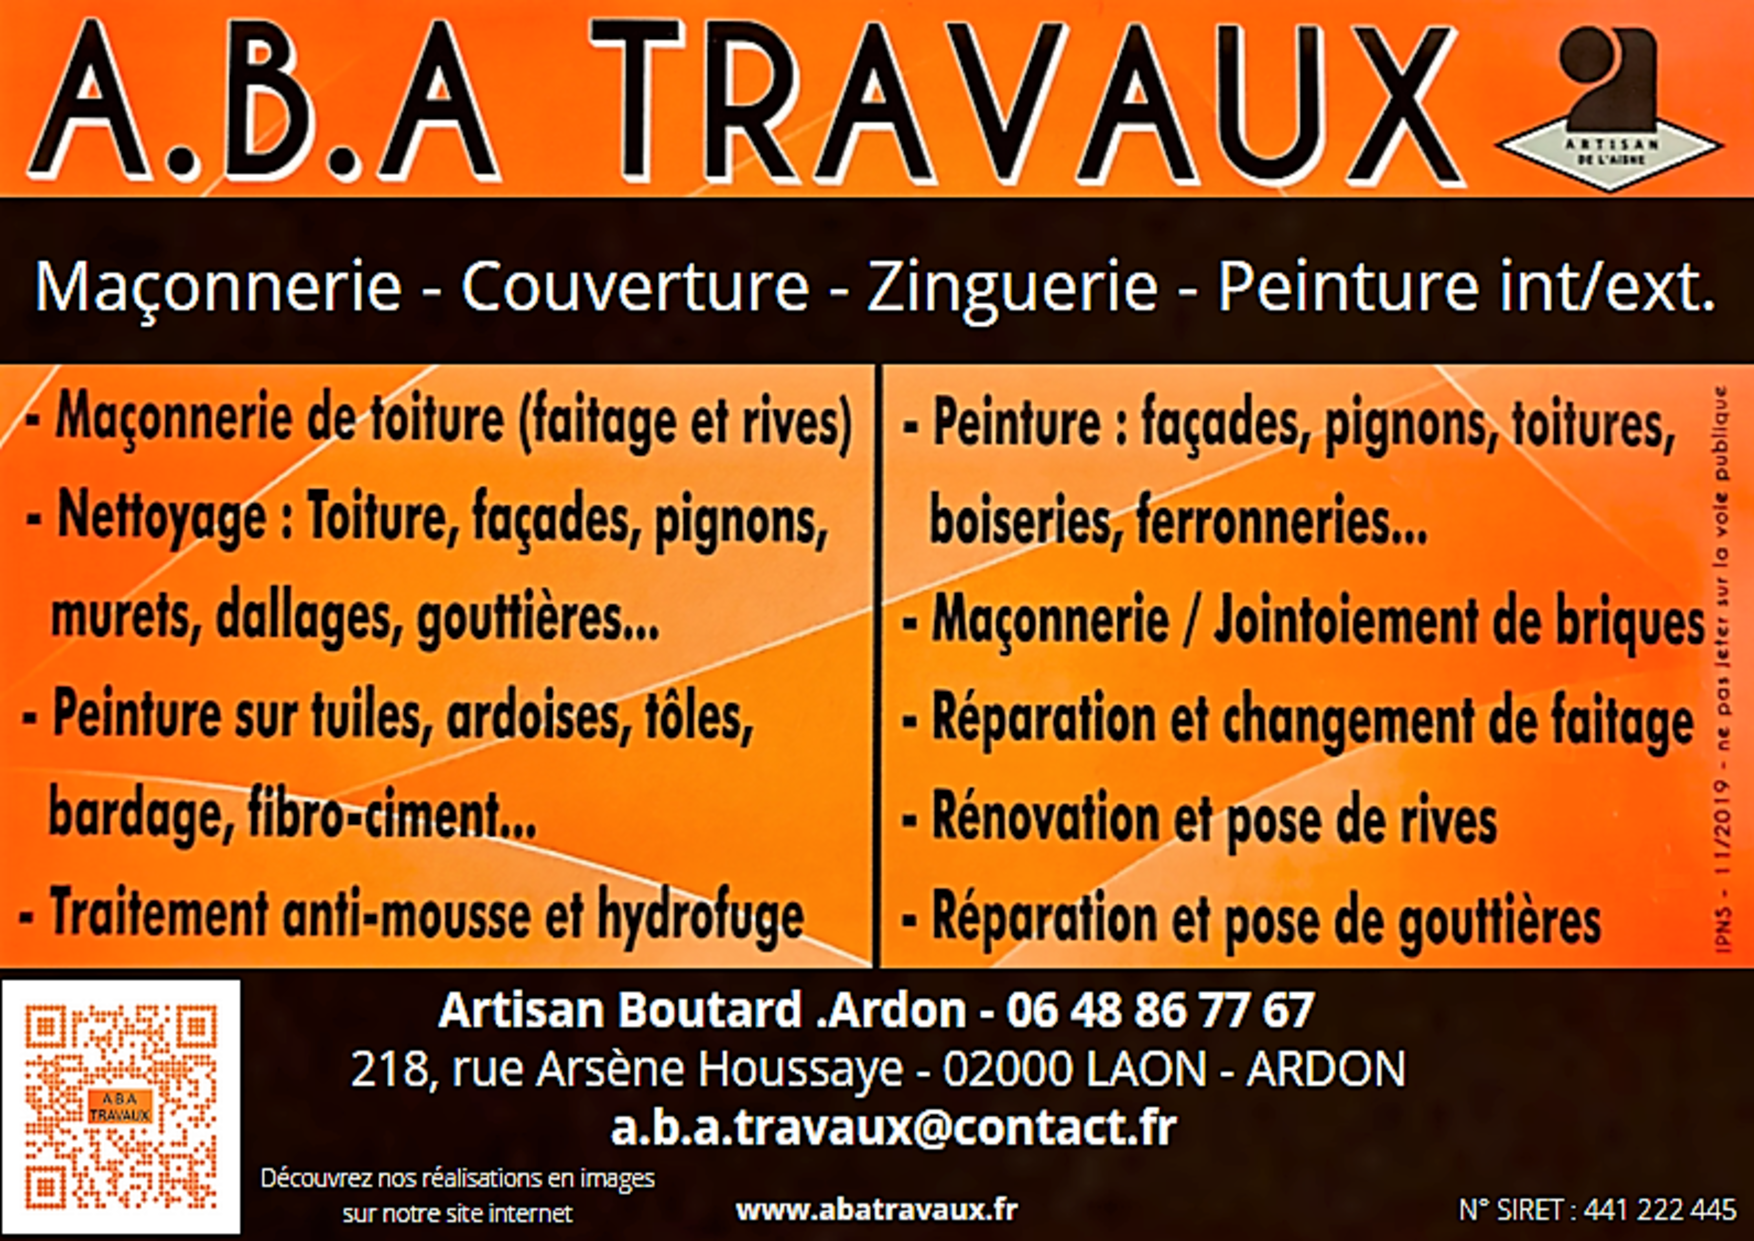
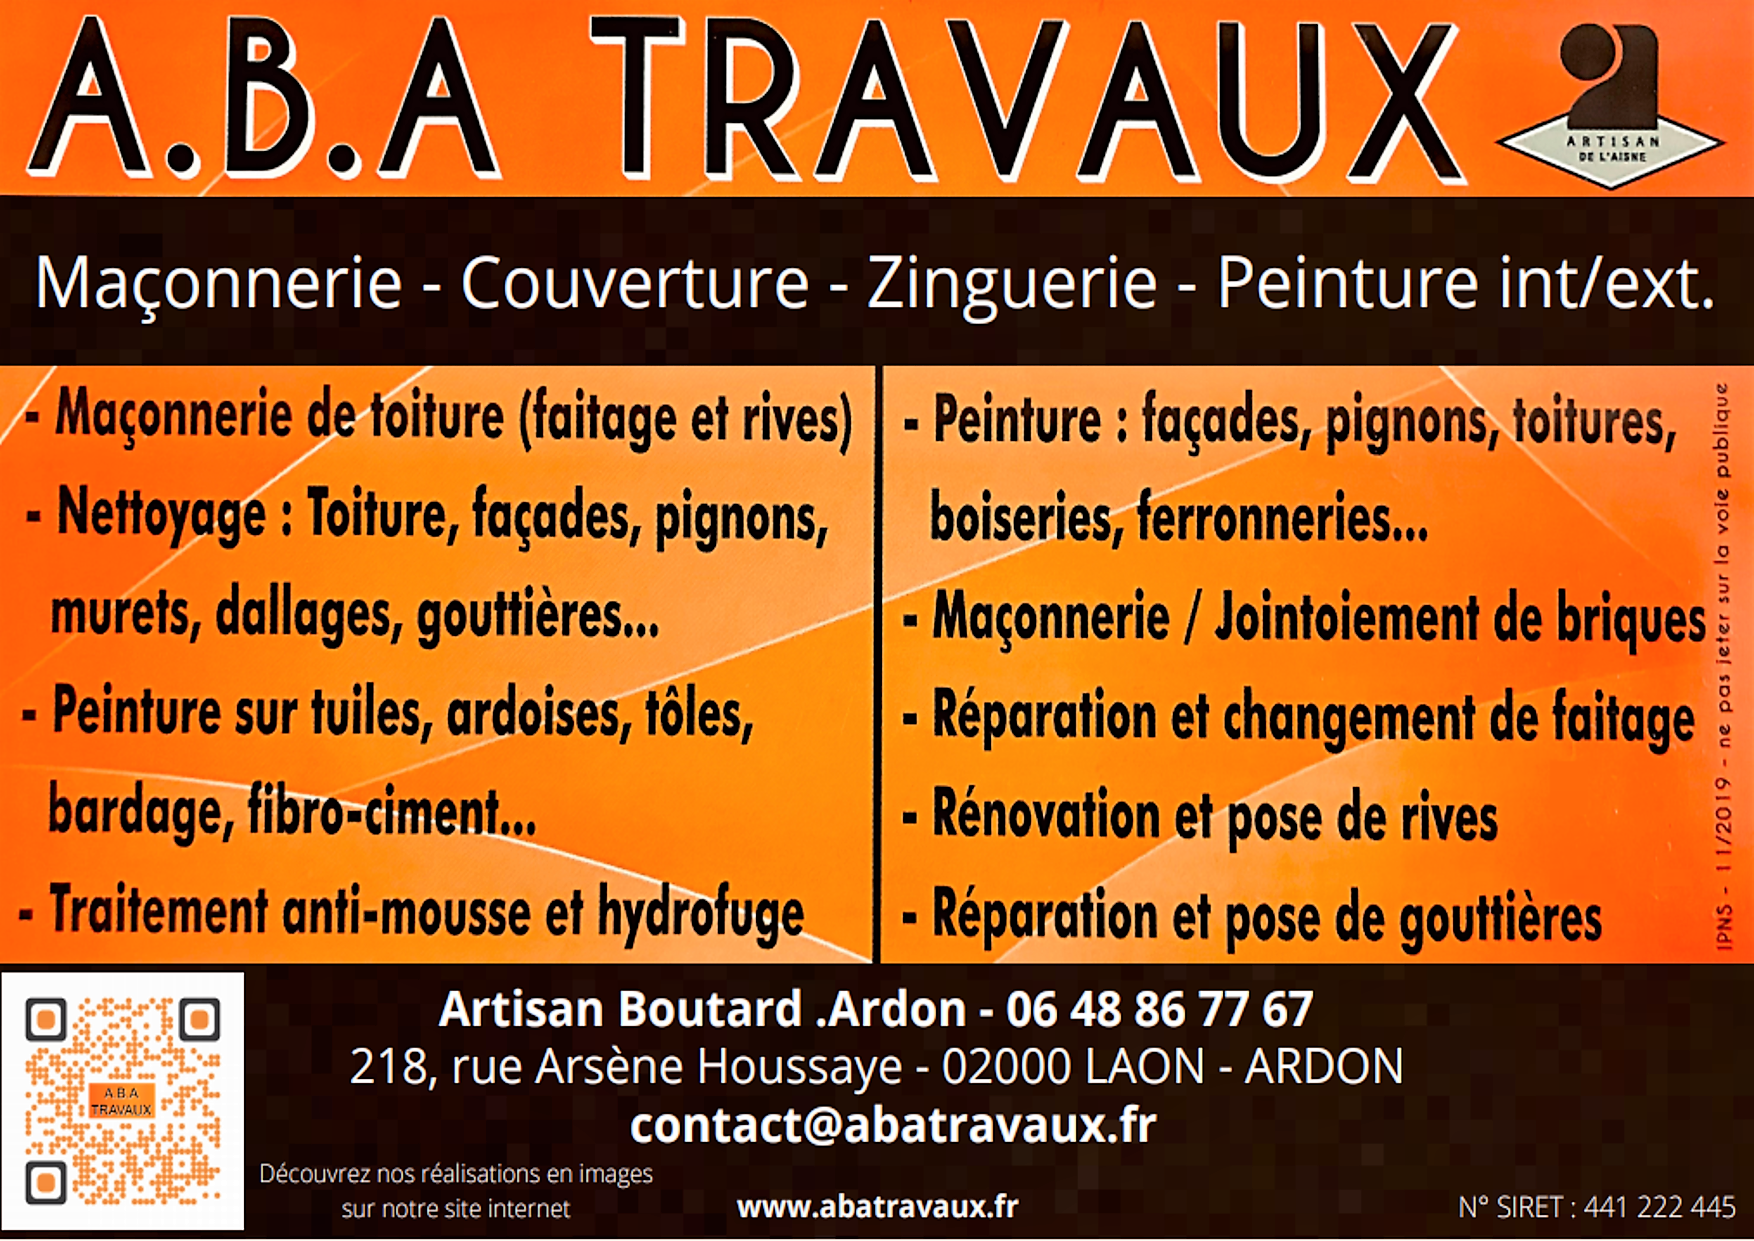
A.B.ATravaux

diff --git a/galerie.html b/galerie.html
@@ -82,6 +82,9 @@
         .font{
             font-size:1.3em;
         }
+        .fa-facebook-square{
+            font-size:50px;
+        }
     </style>
 </head>
 <body>
@@ -753,11 +756,15 @@
         <div class="row">
             <div class="col-xs-12 col-sm-12 col-md-12 col-lg-12 col-xl-12">
                 <div class="text-center mt-5" >
-                    <iframe src="https://www.facebook.com/plugins/share_button.php?href=https%3A%2F%2Fabatravaux.000webhostapp.com%2F&layout=button&size=large&width=95&height=28&appId" width="95" height="28" style="border:none;overflow:hidden" scrolling="no" frameborder="0" allowfullscreen="true" allow="autoplay; clipboard-write; encrypted-media; picture-in-picture; web-share"></iframe>
+                    <iframe src="https://www.facebook.com/plugins/share_button.php?href=https%3A%2F%2Fabatravaux.fr&layout=button&size=large&width=95&height=28&appId" width="95" height="28" style="border:none;overflow:hidden" scrolling="no" frameborder="0" allowfullscreen="true" allow="autoplay; clipboard-write; encrypted-media; picture-in-picture; web-share"></iframe>
                 </div>
                 <h3 class="text-center sub-title">Artisan Boutard Ardon - <a href="tel:0648867767">06.48.86.77.67</a></h3>
                 <h3 class="text-center sub-title">218, rue Arsène Houssaye - 02000 LAON - ARDON</h3>
-                <a href="mailto:aba.travaux.couverture@gmail.com"><h4 class="text-center">a.b.a.travaux@contact.fr</h4></a>
+                <a href="mailto:aba.travaux.couverture@gmail.com"><h4 class="text-center">contact@abatravaux.fr</h4></a>
+                <p class="h4 text-white">Retrouver nous sur Facebook</p>
+                <div class="text-center">
+                    <a href="https://www.facebook.com/ABA-Travaux-104264981802021"><i class="fab fa-facebook-square"></i></a>
+                </div>
                 <hr/>
                 <div class="text-center text-white-50">
                     <p>n° SIRET : 441 222 445</p>

diff --git a/index.html b/index.html
@@ -119,6 +119,9 @@
             display:inline-block;
             float: left;
         }
+        .fa-facebook-square{
+            font-size:50px;
+        }
     </style>
 </head>
 <body>
@@ -240,6 +243,9 @@
                 <h3 class="text-center sub-title">Artisan Boutard Ardon - <a href="tel:0648867767">06.48.86.77.67</a></h3>
                 <h3 class="text-center sub-title">218, rue Arsène Houssaye - 02000 LAON - ARDON</h3>
                 <a href="mailto:aba.travaux.couverture@gmail.com"> <h4 class="text-center">a.b.a.travaux@contact.fr</h4></a>
+                <div class="text-center">
+                    <a href="https://www.facebook.com/ABA-Travaux-104264981802021"><i class="fab fa-facebook-square"></i></a>
+                </div>
                 <hr/>
                 <div class="text-center text-white-50">
                     <p>n° SIRET : 441 222 445</p>
